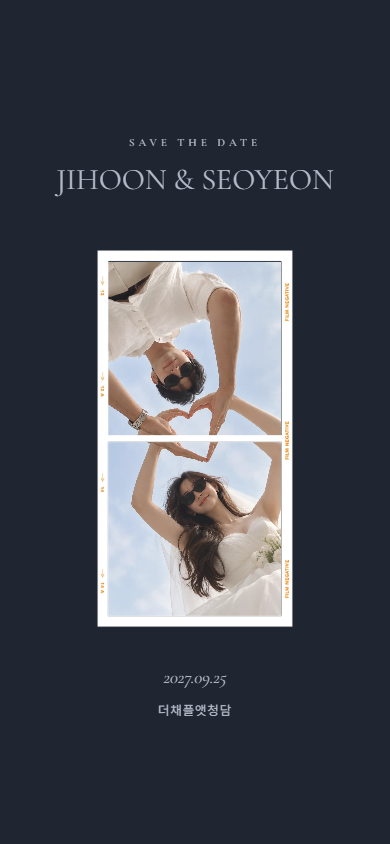
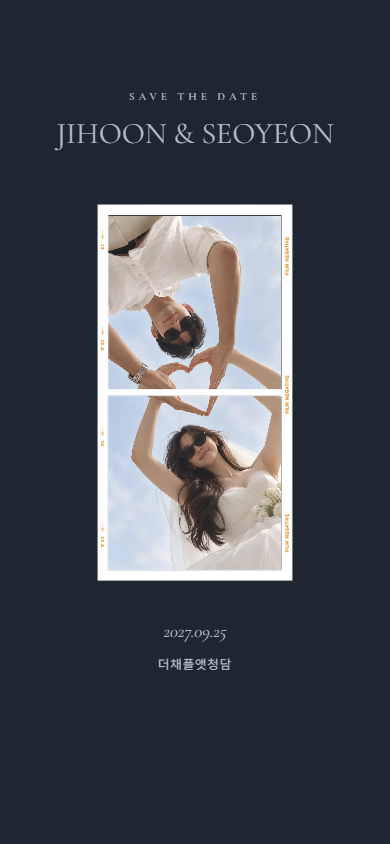
fix(classic/samples): 서명 관계라벨 왼쪽 정렬 + MOVIE 썸네일 위치 상향
- 편지 서명 '의 아들'/'의 딸' 라벨을 왼쪽 정렬해 두 줄 시작점 일치
- preview-movie.png 콘텐츠를 살짝 위로(하단은 커버 배경색으로 채움)

Claude-Session: https://claude.ai/code/session_01EA9v9B7vVYSfYUsF8sVMRA

diff --git a/src/app/i/[slug]/InvitationClientClassic.tsx b/src/app/i/[slug]/InvitationClientClassic.tsx
@@ -1681,10 +1681,10 @@ export default function InvitationClientClassic({ invitation, content, isPaid, i
                     // 부모명 · 관계(작게) · 자녀명을 3열로 컬럼 정렬 — 두 줄이 세로로 맞음
                     <div style={{ display: 'grid', gridTemplateColumns: 'auto auto auto', columnGap: 8, rowGap: 7, justifyContent: 'center', alignItems: 'baseline' }}>
                       <span style={{ textAlign: 'right', whiteSpace: 'nowrap' }}>{parentsJsx(letterA.side.father, letterA.side.mother) || ''}</span>
-                      <span style={{ fontSize: bfs(9), color: inkA(0.5), whiteSpace: 'nowrap' }}>{parentsJsx(letterA.side.father, letterA.side.mother) ? `의 ${letterA.title}` : letterA.title}</span>
+                      <span style={{ fontSize: bfs(9), color: inkA(0.5), textAlign: 'left', whiteSpace: 'nowrap' }}>{parentsJsx(letterA.side.father, letterA.side.mother) ? `의 ${letterA.title}` : letterA.title}</span>
                       <span style={{ textAlign: 'left', color: INK, whiteSpace: 'nowrap' }}>{letterA.ko}</span>
                       <span style={{ textAlign: 'right', whiteSpace: 'nowrap' }}>{parentsJsx(letterB.side.father, letterB.side.mother) || ''}</span>
-                      <span style={{ fontSize: bfs(9), color: inkA(0.5), whiteSpace: 'nowrap' }}>{parentsJsx(letterB.side.father, letterB.side.mother) ? `의 ${letterB.title}` : letterB.title}</span>
+                      <span style={{ fontSize: bfs(9), color: inkA(0.5), textAlign: 'left', whiteSpace: 'nowrap' }}>{parentsJsx(letterB.side.father, letterB.side.mother) ? `의 ${letterB.title}` : letterB.title}</span>
                       <span style={{ textAlign: 'left', color: INK, whiteSpace: 'nowrap' }}>{letterB.ko}</span>
                     </div>
                   )}
